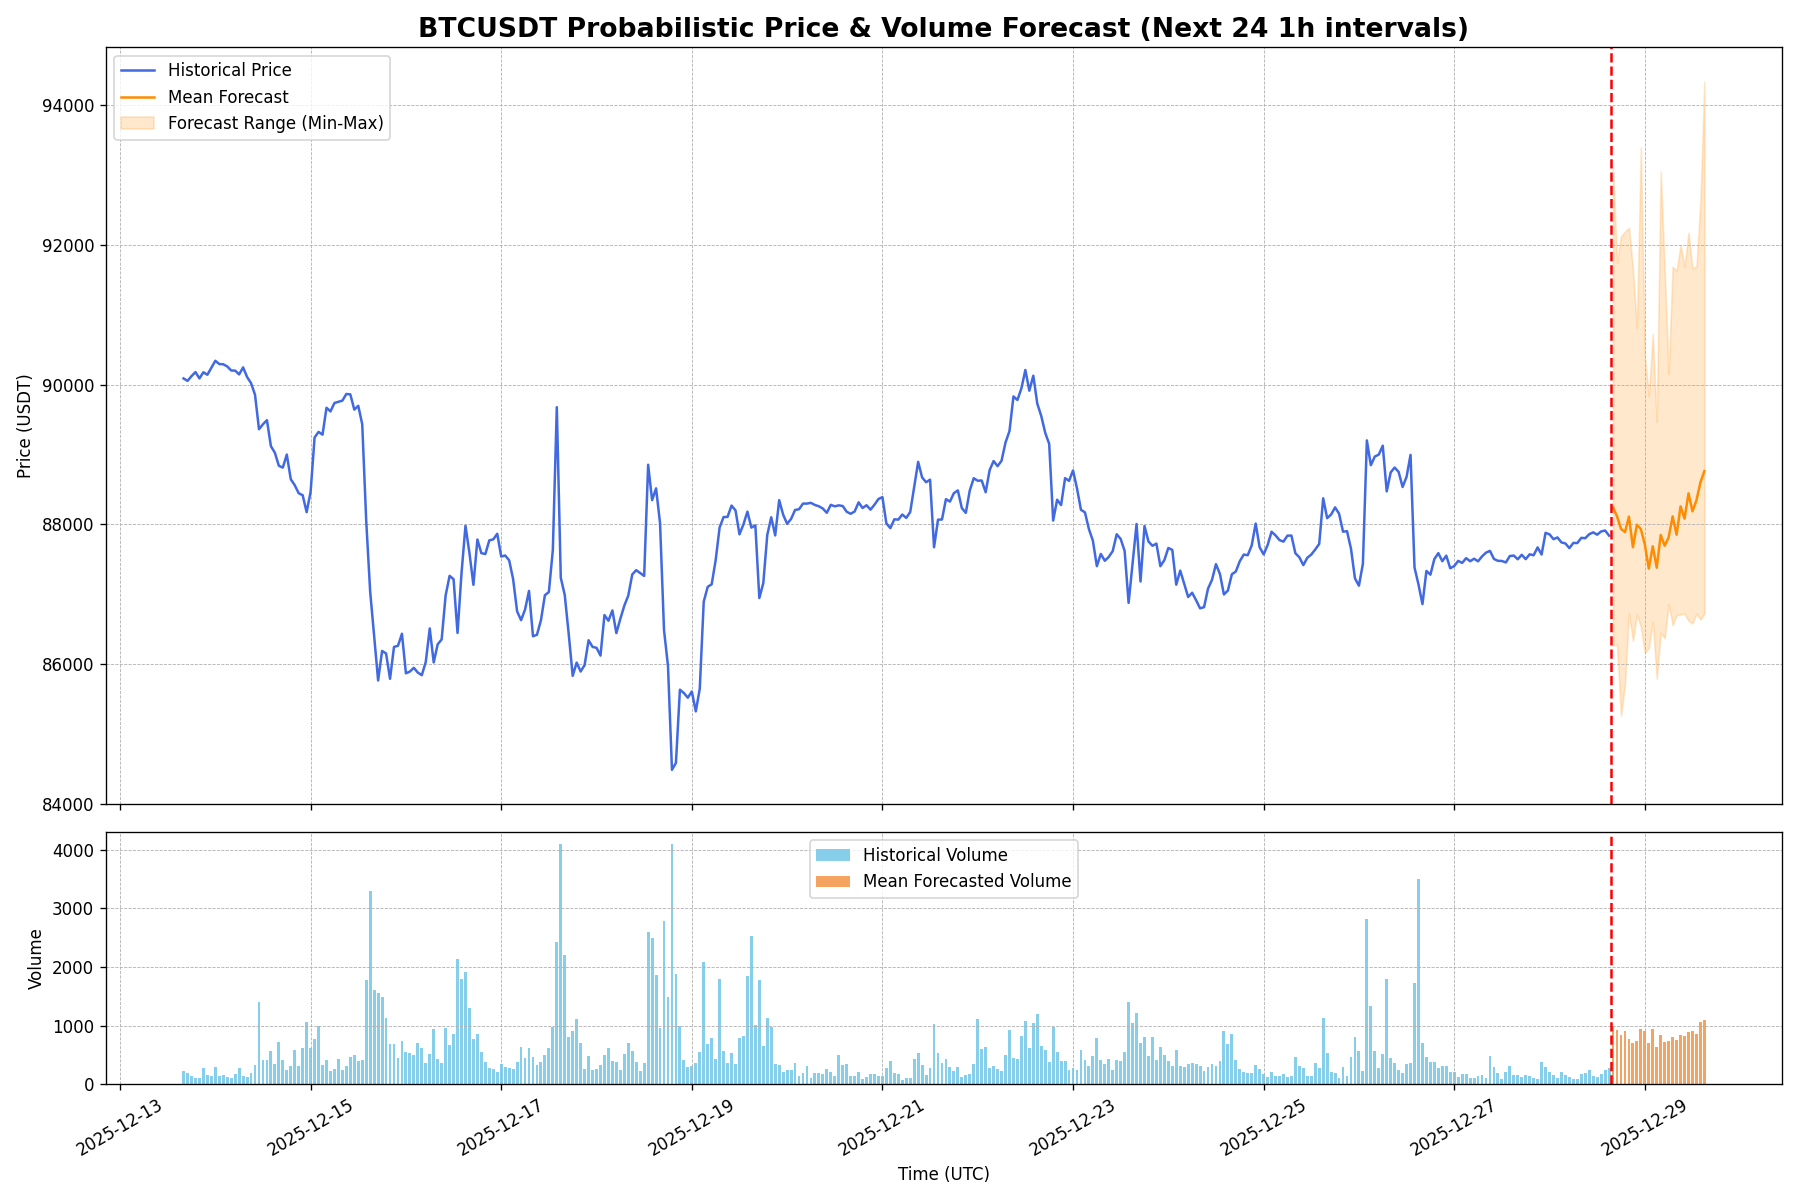
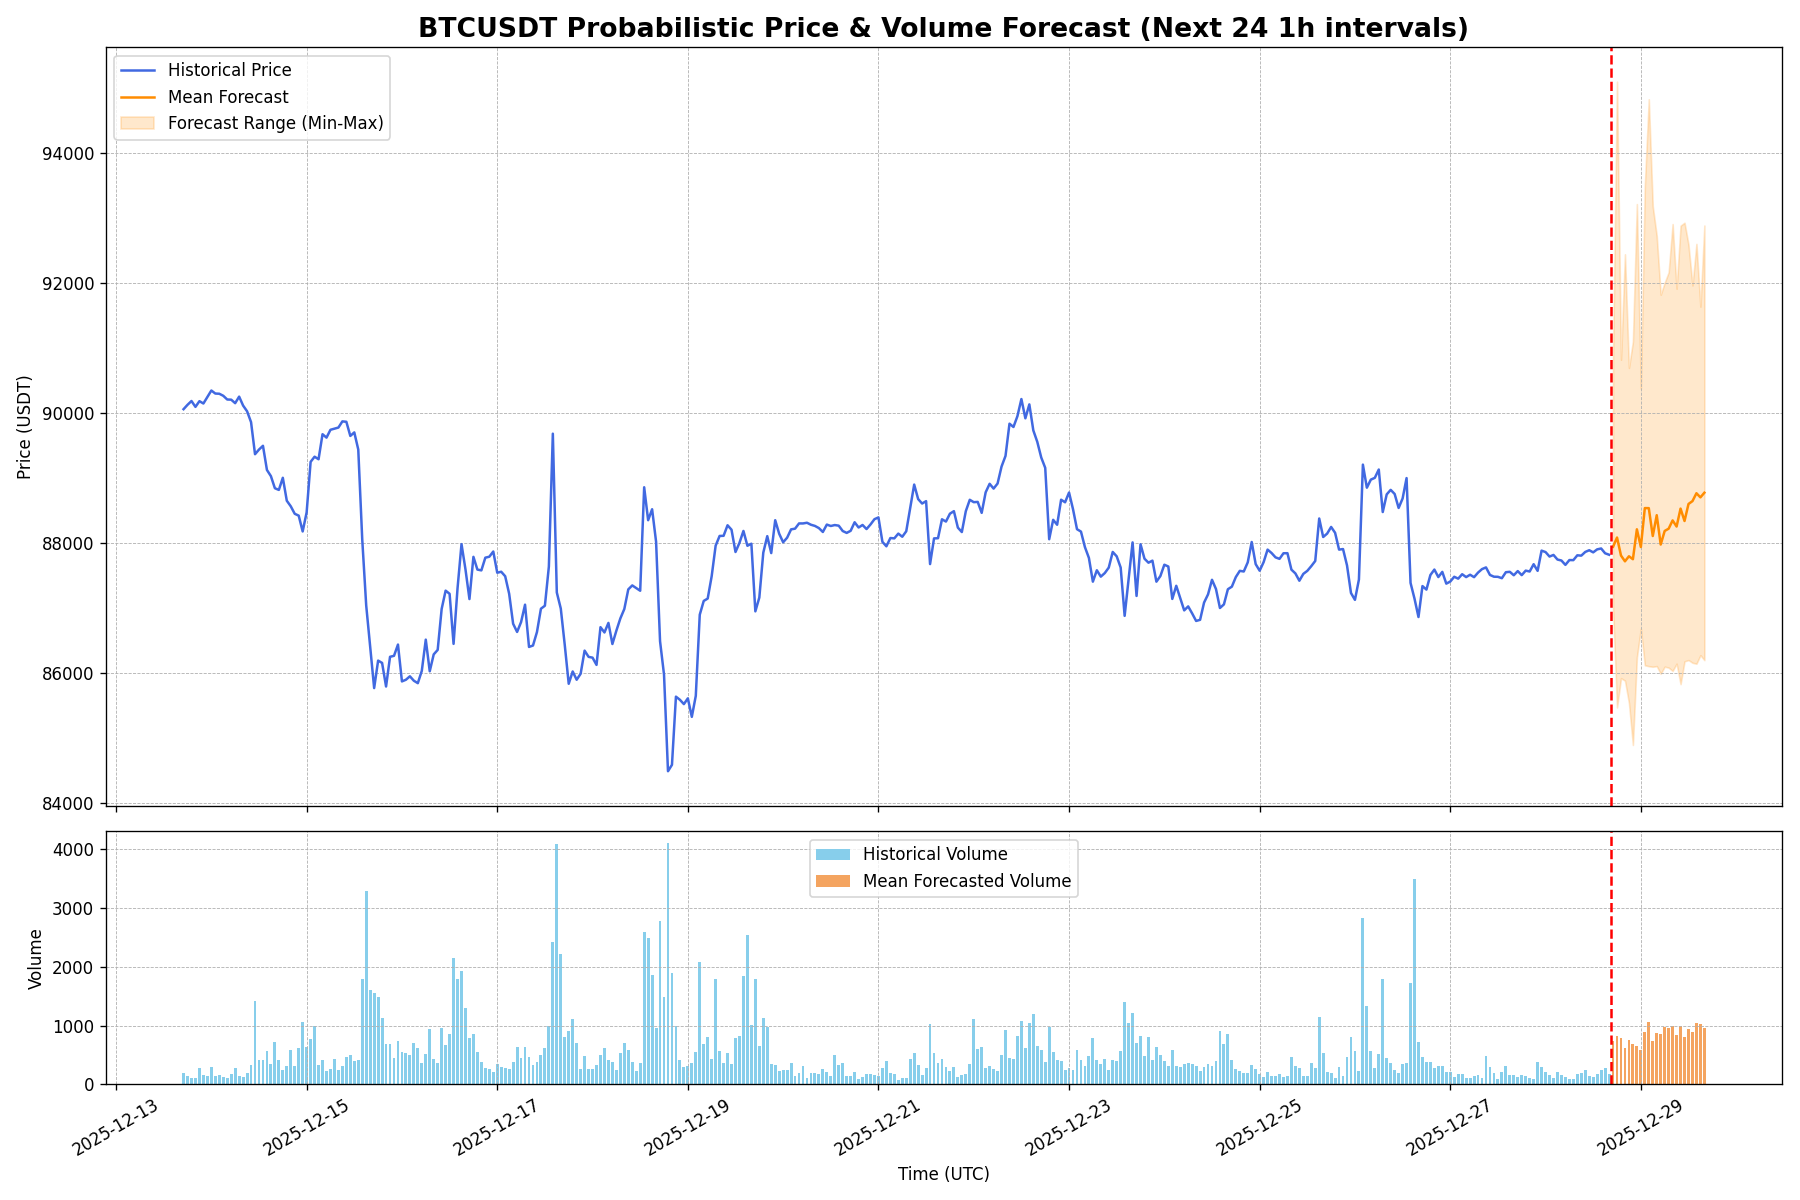
Auto-update forecast for 2025-12-28 17:09 UTC

diff --git a/index.html b/index.html
@@ -26,7 +26,7 @@
              <div>
                  <div class="update-time">
                      <span class="status-indicator"></span>
-                     <span data-i18n="lastUpdate">最后更新时间:</span> <strong id="update-time">2025-12-28 16:09:20</strong>
+                     <span data-i18n="lastUpdate">最后更新时间:</span> <strong id="update-time">2025-12-28 17:09:18</strong>
                  </div>
                  <div class="data-source"><span data-i18n="dataSource">数据来源:</span> Binance</div>
              </div>
